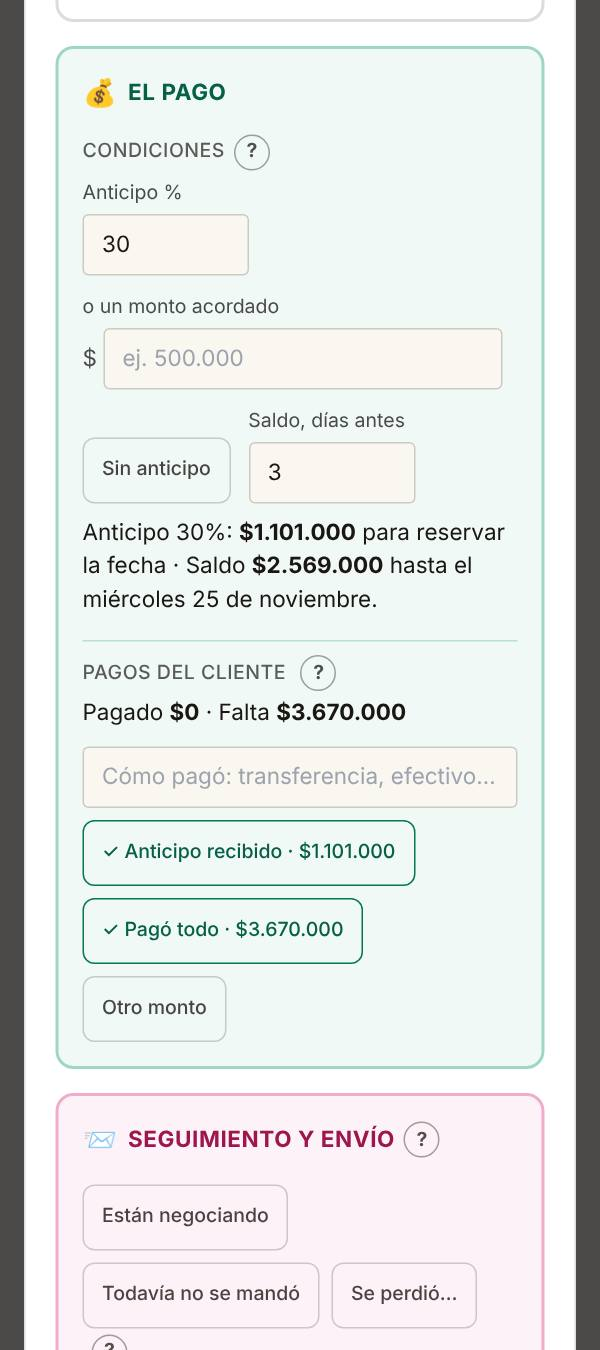
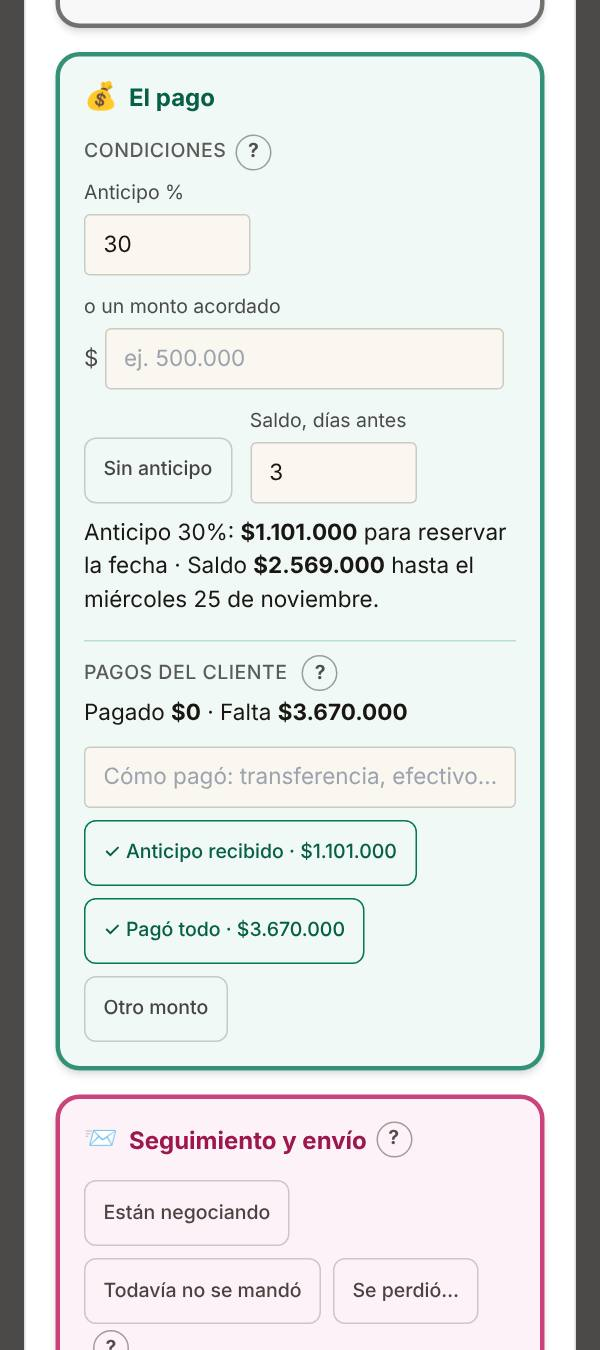
Cotizar: marcos de grupo en los cinco pasos
Lo pidió el cliente con una foto del paso 3: que la ventana de cotizar siga
las reglas de diseño, con el marco de cada sección más marcado que lo de
adentro y Menús separado de Extras.

- marcoGrupo ganó el color (verde, cielo, rosa, ámbar, morado, oro); el
  equipo y los extras siguen igual.
- Seccion e Hito (pasos 2, 4 y 5) son marcos de grupo: 3px en su tono y el
  título en negrita, como el nombre de un puesto.
- Paso 1: Clientes en un grupo, cada cliente como tarjeta de adentro.
- Paso 2: dos secciones del mismo alto, Cuándo y cuántos / El evento.
- Paso 3: Menús, Extras y arriendo y En la cotización, cada uno en su
  grupo; las líneas como tarjetas de adentro y el total al pie.
- Todo cabe en 1280x650 (el paso 3 mide 604). Las cuatro fotos de la ayuda
  que muestran la ventana se rehicieron.

Claude-Session: https://claude.ai/code/session_01SbCpLXRLiAYNdagAaPDDb9

diff --git a/panel/src/components/CotizacionDialogo.tsx b/panel/src/components/CotizacionDialogo.tsx
@@ -63,6 +63,7 @@ import { abrirWhatsApp } from './BotonWhatsApp';
 import { cupoParaGanar } from '@/lib/dias';
 import { tieneArriendo, esExclusivo, exclusividadDe, plazoParaLiberar } from '@/lib/exclusivo';
 import { usarSoloMira } from './SesionCliente';
+import { marcoGrupo, marcoTarjeta, TITULO_GRUPO } from './TarjetaLista';
 
 const ENTRADA =
   'w-full rounded border border-hueso/20 bg-tinta px-3 py-2 text-[15px] ' +
@@ -1548,7 +1549,13 @@ export default function CotizacionDialogo({
                     —el relleno de esta ventana es *Ir al paso 2*—: va grande
                     y con borde dorado. Lo escrito en el buscador pasa a ser
                     el nombre del cliente nuevo. */}
-                <div className="flex flex-col gap-2 sm:flex-row">
+                {/* **La lista de clientes, en su marco de grupo** (2026-11-22,
+                    la regla *el marco de la tarjeta manda*): el título, el
+                    botón y el buscador arriba, y los clientes como tarjetas de
+                    adentro (2px). */}
+                <div className={`space-y-3 ${marcoGrupo()} p-3 lg:space-y-2 lg:px-3 lg:py-2`}>
+                <div className="flex flex-col gap-2 sm:flex-row sm:items-center">
+                  <h3 className={`${TITULO_GRUPO} sm:mr-1 sm:shrink-0`}>Clientes</h3>
                   <button type="button"
                     className="boton min-h-[48px] shrink-0 !border-2 !border-oro px-5 !text-[15px] !font-bold !text-oro hover:bg-oro/10"
                     onClick={() => setNuevoCliente({ nombre: busqueda, telefono: '', correo: '', empresa: '' })}>
@@ -1563,8 +1570,8 @@ export default function CotizacionDialogo({
                   {encontrados.map((c) => (
                     <li key={c.id}>
                       <button type="button" onClick={() => { setIdCliente(c.id); setPaso(2); }}
-                        className={`tecla w-full rounded border px-3 py-2 text-left min-h-[52px] ${
-                          c.id === idCliente ? 'border-verde-fuerte bg-verde/10' : 'border-hueso/20'}`}>
+                        className={`tecla w-full px-3 py-2 text-left min-h-[52px] ${
+                          marcoTarjeta(false, c.id === idCliente ? 'verde' : 'normal', true, true)}`}>
                         <span className="block text-[15px] font-semibold">{c.nombre}</span>
                         <span className="block text-[13px] text-hueso/70">
                           {c.empresa || c.telefono || c.correo}
@@ -1573,11 +1580,12 @@ export default function CotizacionDialogo({
                     </li>
                   ))}
                 </ul>
+                </div>
               </>
             )}
             {nuevoCliente && (
-              <div className="space-y-3 rounded border border-oro/50 p-3">
-                <p className="text-[14px] font-bold uppercase tracking-wide">Cliente nuevo</p>
+              <div className={`space-y-3 ${marcoGrupo('oro')} p-3`}>
+                <p className={TITULO_GRUPO}>Cliente nuevo</p>
                 <div className="grid grid-cols-1 gap-3 sm:grid-cols-2">
                   <Campo etiqueta="Nombre" ancho="w-full">
                     <input className={ENTRADA} value={nuevoCliente.nombre} autoFocus
@@ -1629,9 +1637,13 @@ export default function CotizacionDialogo({
 
         {/* ---------- 2. Evento ---------- */}
         {paso === 2 && (
-          <div className="space-y-4 lg:grid lg:grid-cols-2 lg:gap-x-10 lg:space-y-0">
+          <div className="space-y-4 lg:grid lg:grid-cols-2 lg:gap-x-4 lg:space-y-0">
             {/* En el computador, dos columnas: a la izquierda cuándo y cuántos;
-                a la derecha qué es, por quién viene y las notas. */}
+                a la derecha qué es, por quién viene y las notas. **Cada una en
+                su marco de grupo, con su título** (2026-11-22, la regla *el
+                marco de la tarjeta manda*): la misma `Seccion` de los pasos 4
+                y 5. */}
+            <Seccion tono="neutro" icono="📅" titulo="Cuándo y cuántos">
             <div className="space-y-4 lg:space-y-3">
             <div className="flex flex-wrap items-end gap-3">
               {!sinFecha && (
@@ -1683,7 +1695,9 @@ export default function CotizacionDialogo({
               </p>
             </div>
             </div>
+            </Seccion>
 
+            <Seccion tono="neutro" icono="🎉" titulo="El evento">
             <div className="space-y-4 lg:space-y-3">
             <div>
               <p className="mb-1 text-[13px] font-medium uppercase tracking-wide text-hueso/60">
@@ -1784,6 +1798,7 @@ export default function CotizacionDialogo({
               </div>
             )}
             </div>
+            </Seccion>
           </div>
         )}
 
@@ -1812,9 +1827,14 @@ export default function CotizacionDialogo({
                   // En el computador, el nombre del grupo va a la izquierda, en
                   // su columna, y los botones a su derecha: dos filas en vez de
                   // seis. El `?` de *Agregar* va con el primer grupo.
-                  <div key={g.titulo} className="mb-3 last:mb-0 lg:mb-1.5 lg:flex lg:items-start lg:gap-2">
-                    <p className="mb-1.5 text-[13px] font-semibold text-hueso/75 lg:mb-0 lg:flex lg:min-h-[44px]
-                                  lg:w-[9.5rem] lg:shrink-0 lg:items-center">
+                  // **Cada uno en su marco de grupo** (2026-11-22, lo pidió el
+                  // cliente: *"para distinguir mejor entre sección menú, sección
+                  // extras"*): 3px y el nombre en negrita; los botones de
+                  // adentro, con su borde fino de siempre.
+                  <div key={g.titulo} className={`mb-3 last:mb-0 ${marcoGrupo()} p-3 lg:mb-2 lg:flex lg:items-start
+                                                  lg:gap-2 lg:px-3 lg:py-2`}>
+                    <p className={`mb-2 ${TITULO_GRUPO} lg:mb-0 lg:flex lg:min-h-[44px] lg:w-[9.5rem] lg:shrink-0
+                                  lg:items-center`}>
                       {g.titulo}
                       {n === 0 && <span className="hidden lg:inline"><AyudaCorta tema="agregarProducto" /></span>}
                     </p>
@@ -1826,7 +1846,7 @@ export default function CotizacionDialogo({
                         return (
                           <button key={m.nombre} type="button" onClick={() => agregar(m)} disabled={ya}
                             title={ya ? 'Ya está en la cotización: cambia la cantidad en su línea' : undefined}
-                            className={`boton min-h-[48px] text-[14px] lg:min-h-[44px] ${ya ? 'border-verde-fuerte/50 text-verde-texto' : ''}`}>
+                            className={`boton min-h-[48px] text-[14px] lg:min-h-[44px] lg:px-2 ${ya ? 'border-verde-fuerte/50 text-verde-texto' : ''}`}>
                             {ya ? '✓' : '+'} {m.nombre}
                             <span className={`ml-1 text-hueso/60 ${ya ? 'lg:hidden' : ''}`}>
                               {ya ? '· ya está'
@@ -1837,7 +1857,7 @@ export default function CotizacionDialogo({
                         );
                       })}
                       {g.otra && (
-                        <button type="button" className="boton min-h-[48px] text-[14px] lg:min-h-[44px]"
+                        <button type="button" className="boton min-h-[48px] text-[14px] lg:min-h-[44px] lg:px-2"
                           onClick={() => setLineas([...vistas, {
                             presupuesto: p?.id ?? '', concepto: 'Otro', cantidad: 1, precio: 0,
                             personas: 0, descuento: 0, ivaIncluido: true, sigue: false, precioUF: 0 }])}>
@@ -1855,6 +1875,12 @@ export default function CotizacionDialogo({
               </div>
             )}
 
+            {/* **Lo cotizado, en su marco de grupo** (2026-11-22): las líneas,
+                la UF y las cuentas son una sola tarjeta, con las líneas como
+                tarjetas de adentro (2px) y el total al pie, bajo una raya. El
+                título va en la cabecera de la tabla, donde decía *Producto*. */}
+            <div className={`${marcoGrupo()} p-3 lg:px-3 lg:py-2`}>
+            <p className={`mb-2 ${TITULO_GRUPO} lg:hidden`}>En la cotización</p>
             {vistas.length === 0 ? (
               <p className="rounded border border-dashed border-hueso/20 p-4 text-[14px] text-hueso/60">
                 Todavía no hay nada cotizado.
@@ -1867,10 +1893,10 @@ export default function CotizacionDialogo({
               // Los nombres de cada campo siguen ahí para un lector de pantalla.
               <ul className="space-y-2 lg:grid lg:grid-cols-[minmax(0,1fr)_auto_auto_auto_auto_auto] lg:gap-x-4
                              lg:gap-y-1.5 lg:space-y-0">
-                <li aria-hidden className="hidden border border-transparent px-3 text-[13px] font-medium uppercase
+                <li aria-hidden className="hidden border-2 border-transparent px-3 text-[13px] font-medium uppercase
                                            tracking-wide text-hueso/60 lg:col-span-full lg:grid lg:grid-cols-subgrid
                                            lg:items-center">
-                  <span>Producto</span>
+                  <span className={`${TITULO_GRUPO} normal-case tracking-normal text-hueso`}>En la cotización</span>
                   <span>Cantidad</span>
                   <span className="flex items-center">Precio c/u <AyudaCorta tema="precioLinea" /></span>
                   <span className="flex items-center">Descuento <AyudaCorta tema="descuentoLinea" /></span>
@@ -1884,8 +1910,8 @@ export default function CotizacionDialogo({
                   const showMinimo = prod?.tipo === TIPO_PRODUCTO.show && showConMinimo && datos.reglaShow
                     ? datos.reglaShow : null;
                   return (
-                    <li key={i} className="rounded border border-hueso/15 bg-panel p-3 lg:col-span-full lg:grid
-                                           lg:min-h-[46px] lg:grid-cols-subgrid lg:items-center lg:py-1">
+                    <li key={i} className={`${marcoTarjeta(false, 'normal', false, true)} p-3 lg:col-span-full lg:grid
+                                           lg:min-h-[46px] lg:grid-cols-subgrid lg:items-center lg:py-1`}>
                       <div className="flex flex-wrap items-center gap-2 lg:contents">
                         <span className="flex min-w-0 flex-wrap items-center gap-2 lg:col-start-1 lg:row-start-1">
                         {prod ? (
@@ -2040,9 +2066,11 @@ export default function CotizacionDialogo({
             {/* En el computador este aviso va en el pie, junto a *volver*. */}
             {avisoMenus && <div className="lg:hidden">{avisoMenus}</div>}
 
-            {/* Las cuentas, como en una cotización: neto, descuento, IVA y total. */}
-            <div className="rounded border border-oro/40 p-3 lg:flex lg:flex-wrap lg:items-center lg:gap-x-5 lg:gap-y-1
-                            lg:py-1.5">
+            {/* Las cuentas, como en una cotización: neto, descuento, IVA y total.
+                Al pie del grupo de lo cotizado, bajo una raya, como el total
+                de una cuenta. */}
+            <div className="mt-3 border-t-2 border-hueso/20 pt-3 lg:mt-2 lg:flex lg:flex-wrap lg:items-center lg:gap-x-5
+                            lg:gap-y-1 lg:pt-2">
               {/* En el computador, las cuentas van en una fila: el
                   descuento sobre el total, y neto, IVA y total. */}
               <div className="mb-2 flex flex-wrap items-center gap-2 lg:mb-0">
@@ -2075,14 +2103,15 @@ export default function CotizacionDialogo({
                 </div>
               </dl>
             </div>
+            </div>
 
             {/* **¿El día es exclusivo?** (2026-11-12, lo pidió el cliente):
                 con arriendo se pregunta, sin obligar —con buena negociación
                 puede venir otro grupo—. Exclusivo llega así al calendario al
                 ganarla. */}
             {p && (conArriendo || esExcl) && (
-              <div className="rounded-xl border-2 border-morado-fuerte/60 bg-morado/[0.08] p-4 lg:flex lg:flex-wrap
-                              lg:items-center lg:gap-x-4 lg:gap-y-1 lg:px-3 lg:py-1.5 lg:[&>*]:mt-0">
+              <div className={`${marcoGrupo('morado')} p-4 lg:flex lg:flex-wrap
+                              lg:items-center lg:gap-x-4 lg:gap-y-1 lg:px-3 lg:py-1.5 lg:[&>*]:mt-0`}>
                 <p className="flex items-center gap-2 text-[17px] font-bold text-morado-texto">
                   🟣 ¿El día es exclusivo? <AyudaCorta tema="exclusivo" />
                 </p>
@@ -3094,29 +3123,32 @@ function PieDePaso({ paso, guardando, puede, porQueNo, aviso, medio, onVolver, o
 }
 
 /**
- * **Una sección del paso 4, con su color** (2026-11-11, lo pidió el
+ * **Una sección de la cotización, con su color** (2026-11-11, lo pidió el
  * cliente: *"darle un distinto tono de fondo para que uno cacha: aquí estoy
  * en el pago del cliente, aquí en cambio de fecha y cancelación"*). El color
  * dice de qué se trata: verde la plata, cielo el contrato, rosado lo que
  * está por confirmarse.
+ *
+ * **Es el marco de un grupo** (2026-11-22, la regla *el marco de la tarjeta
+ * manda sobre lo de adentro*): 3px en el tono fuerte (`marcoGrupo`) y el
+ * título en negrita (`TITULO_GRUPO`), como un puesto en la ventana del
+ * equipo. Lo de adentro —botones, campos, avisos— va con menos. Antes eran
+ * 2px claros y el título chico en mayúsculas: el marco de la sección pesaba
+ * lo mismo que un botón. La usan los pasos 2, 4 y 5.
  */
-const TONOS = {
-  verde: 'border-verde/35 bg-verde/[0.06] text-verde-texto',
-  cielo: 'border-cielo/35 bg-cielo/[0.06] text-cielo-texto',
-  rosa: 'border-rosa/35 bg-rosa/[0.06] text-rosa-texto',
-  ambar: 'border-ambar/45 bg-ambar/[0.07] text-ambar-texto',
-  neutro: 'border-hueso/15 bg-panel text-hueso/80'
+const TEXTO_TONO = {
+  verde: 'text-verde-texto', cielo: 'text-cielo-texto', rosa: 'text-rosa-texto',
+  ambar: 'text-ambar-texto', neutro: 'text-hueso'
 } as const;
 function Seccion({ tono, icono, titulo, ayuda, ayudaPc, children }: {
-  tono: keyof typeof TONOS; icono: string; titulo: string; ayuda?: string;
+  tono: keyof typeof TEXTO_TONO; icono: string; titulo: string; ayuda?: string;
   /** Un `?` que va en el título solo en el computador (en el celular está junto a su campo). */
   ayudaPc?: string;
   children: React.ReactNode;
 }) {
-  const [borde, fondo, texto] = TONOS[tono].split(' ');
   return (
-    <section className={`space-y-4 rounded-xl border-2 ${borde} ${fondo} p-4 lg:space-y-1.5 lg:p-3`}>
-      <h3 className={`flex items-center text-[15px] font-bold uppercase tracking-wide ${texto}`}>
+    <section className={`space-y-4 ${marcoGrupo(tono)} p-4 lg:space-y-1.5 lg:p-3`}>
+      <h3 className={`flex items-center ${TITULO_GRUPO} ${TEXTO_TONO[tono]}`}>
         <span aria-hidden className="mr-2 text-[18px]">{icono}</span>{titulo}
         {ayuda && <AyudaCorta tema={ayuda} />}
         {ayudaPc && <span className="hidden lg:inline"><AyudaCorta tema={ayudaPc} /></span>}
@@ -3126,15 +3158,15 @@ function Seccion({ tono, icono, titulo, ayuda, ayudaPc, children }: {
   );
 }
 
-/** El bloque del próximo hito: grande, con su color y lo que pasa al apretarlo. */
+/** El bloque del próximo hito: grande, con su color y lo que pasa al apretarlo. Un grupo, como las secciones. */
 function Hito({ tono, titulo, bajada, children }: {
   tono: 'verde' | 'rosa' | 'ambar' | 'cielo'; titulo: string;
   /** Una frase de lo que pasa o lo que falta. El porqué va en su `?`, no acá. */
   bajada?: string; children?: React.ReactNode;
 }) {
-  const [borde, fondo, texto] = TONOS[tono].split(' ');
+  const texto = TEXTO_TONO[tono];
   return (
-    <div className={`space-y-3 rounded-2xl border-2 ${borde} ${fondo} p-4 lg:space-y-2 lg:p-3`}>
+    <div className={`space-y-3 ${marcoGrupo(tono)} p-4 lg:space-y-2 lg:p-3`}>
       <div>
         <p className="text-[13px] font-semibold uppercase tracking-widest text-hueso/60">Próximo paso</p>
         <p className={`text-[22px] font-extrabold leading-tight lg:text-[19px] ${texto}`}>{titulo}</p>

diff --git a/panel/src/components/TarjetaLista.tsx b/panel/src/components/TarjetaLista.tsx
@@ -64,9 +64,28 @@ export function marcoTarjeta(abierta: boolean, tono: TonoTarjeta = 'normal', ten
  *
  * El título del grupo va con `TITULO_GRUPO`, en negrita: es el nombre de la
  * tarjeta.
+ *
+ * **Con su color** (2026-11-22, lo pidió el cliente mirando la ventana de
+ * cotizar: *"no estamos cumpliendo aún con todas las reglas… cómo ponemos los
+ * marcos, tarjeta principal, las informaciones adentro tienen otro marco"*).
+ * Las secciones de la cotización tienen un color que dice de qué se trata
+ * —verde la plata, cielo el contrato, rosado lo que está por confirmarse— y
+ * ahora son el mismo marco de grupo, en su color: 3px, el tono fuerte y el
+ * fondo apenas teñido. `true` sigue siendo el ámbar de *falta gente*.
  */
-export function marcoGrupo(falta = false): string {
-  return `rounded-2xl border-[3px] shadow-md ${falta ? 'border-ambar-fuerte bg-ambar/5' : 'border-hueso/60 bg-hueso/[0.03]'}`;
+export type TonoGrupo = 'neutro' | 'verde' | 'cielo' | 'rosa' | 'ambar' | 'morado' | 'oro';
+const COLOR_GRUPO: Record<TonoGrupo, string> = {
+  neutro: 'border-hueso/60 bg-hueso/[0.03]',
+  verde: 'border-verde-fuerte/80 bg-verde/[0.06]',
+  cielo: 'border-cielo-fuerte/80 bg-cielo/[0.06]',
+  rosa: 'border-rosa-fuerte/80 bg-rosa/[0.06]',
+  ambar: 'border-ambar-fuerte bg-ambar/5',
+  morado: 'border-morado-fuerte/80 bg-morado/[0.08]',
+  oro: 'border-oro/80 bg-oro/[0.05]'
+};
+export function marcoGrupo(tono: boolean | TonoGrupo = false): string {
+  const t: TonoGrupo = tono === true ? 'ambar' : tono === false ? 'neutro' : tono;
+  return `rounded-2xl border-[3px] shadow-md ${COLOR_GRUPO[t]}`;
 }
 
 /** El título de un grupo: el nombre del puesto, en negrita y un punto más grande. */

diff --git a/panel/CLAUDE.md b/panel/CLAUDE.md
@@ -156,6 +156,7 @@ revisan antes de cada cambio en esta carpeta.
   | Un número grande con su nombre y su nota: qué preparar, cómo viene el pago, las mesas | `Azulejo` (la página del día y la cara de reservas de la ventana del equipo, con `compacto`) |
   | Una tarjeta de una lista que se abre: el marco, el + / − y el pie *▴ Cerrar* | `marcoTarjeta`, `SignoAbrir`, `PieCerrar` y `LISTA_TARJETAS` de `TarjetaLista` (Informe, Equipo, Extras, Vendedores, Clientes, Productos, Recepción, las reservas del día y las ventanas del equipo y de extras del día) |
   | Un grupo de tarjetas (un puesto en la ventana del equipo, *Actividades del día* en la de extras): **el marco más marcado**, su título y las tarjetas de adentro | `marcoGrupo`, `TITULO_GRUPO` y `marcoTarjeta(…, dentro)` de `TarjetaLista` |
+  | Una sección de una ventana con su color —el pago en verde, el contrato en cielo, el seguimiento en rosado— y el próximo paso | `marcoGrupo(tono)` + `TITULO_GRUPO`: `Seccion` e `Hito` de la ventana de cotizar (pasos 2, 4 y 5); en el paso 3, *Menús*, *Extras y arriendo* y *En la cotización* |
   | Elegir el puesto habitual de una persona | `ElegirPuesto`: un desplegable con los puestos que existen (la ficha de `/equipo` y la ficha que se abre desde el día) |
   | Lo de adentro de la línea de una persona en un día: campos, ajustes, total, *Ficha / Sacar del día*, *+ Nuevo …* | `CampoAlLado`, `AjustesDelDia`, `TotalDelDia`, `BotonesDeLaLinea` y `BotonNuevaPersona` de `LineaDelDia` (ventana del equipo y de las actividades extras) |
   | El nombre de un campo, al lado de su valor y en columna | `CampoAlLado` y `COLUMNA_ROTULO` de `LineaDelDia` |
@@ -544,6 +545,65 @@ dentro* (arriba).
   lleno en uno de cada dos, la barra de cada tarjeta de una fila tiene que
   estar a la misma altura. Antes del cambio daba dos alturas.
 - Medido a 1024, 1280 y 1440px: todas las filas parejas.
+
+## La ventana de cotizar, con marcos de grupo (2026-11-22)
+
+Lo pidió el cliente con una foto del paso 3: *"en cotizaciones no estamos
+cumpliendo aún con todas las reglas y de diseño, de distribución de datos, de
+poner cómo ponemos los marcos, tarjeta principal, las informaciones adentro
+tienen otro marco. Por ejemplo, para distinguir mejor entre sección menú,
+sección extras, aplicar todas las reglas… en todos los formularios de la
+cotización"*. Es la regla *el marco de la tarjeta manda sobre lo de adentro*,
+que ya regía en la ventana del equipo, llevada a los cinco pasos.
+
+- **`marcoGrupo` ganó el color** (`TarjetaLista`): `marcoGrupo('verde' |
+  'cielo' | 'rosa' | 'ambar' | 'morado' | 'oro')`, además de `true` (el ámbar
+  de *falta gente*) y `false` (neutro), que siguen igual en el equipo y los
+  extras. Es el mismo marco —3px, el tono fuerte, el fondo apenas teñido— con
+  el color que ya decía de qué se trata cada sección.
+- **`Seccion` e `Hito` son marcos de grupo**: *Documento*, *El pago*,
+  *Seguimiento y envío*, *El contrato* y el *Próximo paso* pasaron de 2px
+  claros a 3px en su tono, y su título de 15px en mayúsculas a `TITULO_GRUPO`
+  (16px en negrita), como el nombre de un puesto. Lo de adentro —botones,
+  campos, la caja de la factura, *Cambios de fecha y cancelación*— conserva
+  su borde fino.
+- **Paso 1**: la lista de clientes va en un grupo *Clientes*, con el
+  buscador y *+ Cliente nuevo* en su primera fila, y cada cliente es una
+  tarjeta de adentro (`marcoTarjeta(…, dentro)`, verde la elegida). *Cliente
+  nuevo* es un grupo dorado.
+- **Paso 2**: las dos columnas son dos `Seccion` —*📅 Cuándo y cuántos* y
+  *🎉 El evento*— del mismo alto.
+- **Paso 3**: *Menús* y *Extras y arriendo* son **dos grupos**, cada uno con
+  su nombre en negrita a la izquierda de sus botones; *En la cotización* es
+  el tercero, con el título en la cabecera de la tabla (donde decía
+  *Producto*), cada línea como tarjeta de adentro, y el descuento y el total
+  al pie, bajo una raya. *¿El día es exclusivo?* es un grupo morado.
+- **Para que el paso 3 siguiera cabiendo**, los botones de productos tienen
+  8px de aire a los lados en el computador (eran 12): con el marco, la fila
+  de *Menús* se partía en dos y la ventana medía 654px.
+
+**Las medidas** (`npm run ventanas`, 1280×650 y en el celular a 393):
+
+| Paso | Computador antes → ahora | Celular antes → ahora |
+|---|---|---|
+| 1 · Cliente | 429 → 453 | 752 → 822 |
+| 1 · Cliente nuevo | 428 → 431 | 643 → 646 |
+| 2 · Evento | 471 → 530 | 1.079 → 1.284 |
+| 3 · Productos | 533 → 604 | 2.173 → 2.270 |
+| 4 · Envío | 627 → 625 | 2.845 → 2.840 |
+| 5 · Contrato | 622 → 620 | 2.088 → 2.088 |
+
+Todo sigue cabiendo en 1280×650. **El celular crece en los pasos 1 a 3**, a
+propósito: el marco y su título son el formato, no una cosa del computador.
+
+- **Ayuda**: las fotos de las misiones que muestran la ventana se rehicieron
+  (`ven-cotizar`, `ven-envio`, `pag-cobros`, `ger-cobros`); `ven-cotizar`
+  pide 920px de alto, porque la lista de clientes creció. Ningún texto de
+  ayuda describe los marcos.
+- **Lo que no se tocó, a propósito**: las ventanitas que se abren desde la
+  cotización (*¿La mandaste?*, *Corregir la ganada*, *Cancelar evento*, los
+  datos de la factura) son de una sola pregunta, sin secciones.
+- **Lecturas de Google**: ninguna. **Ningún permiso cambió.**
 
 ## La lista de cotizaciones, por fecha del evento y con el año (2026-11-22)
 
